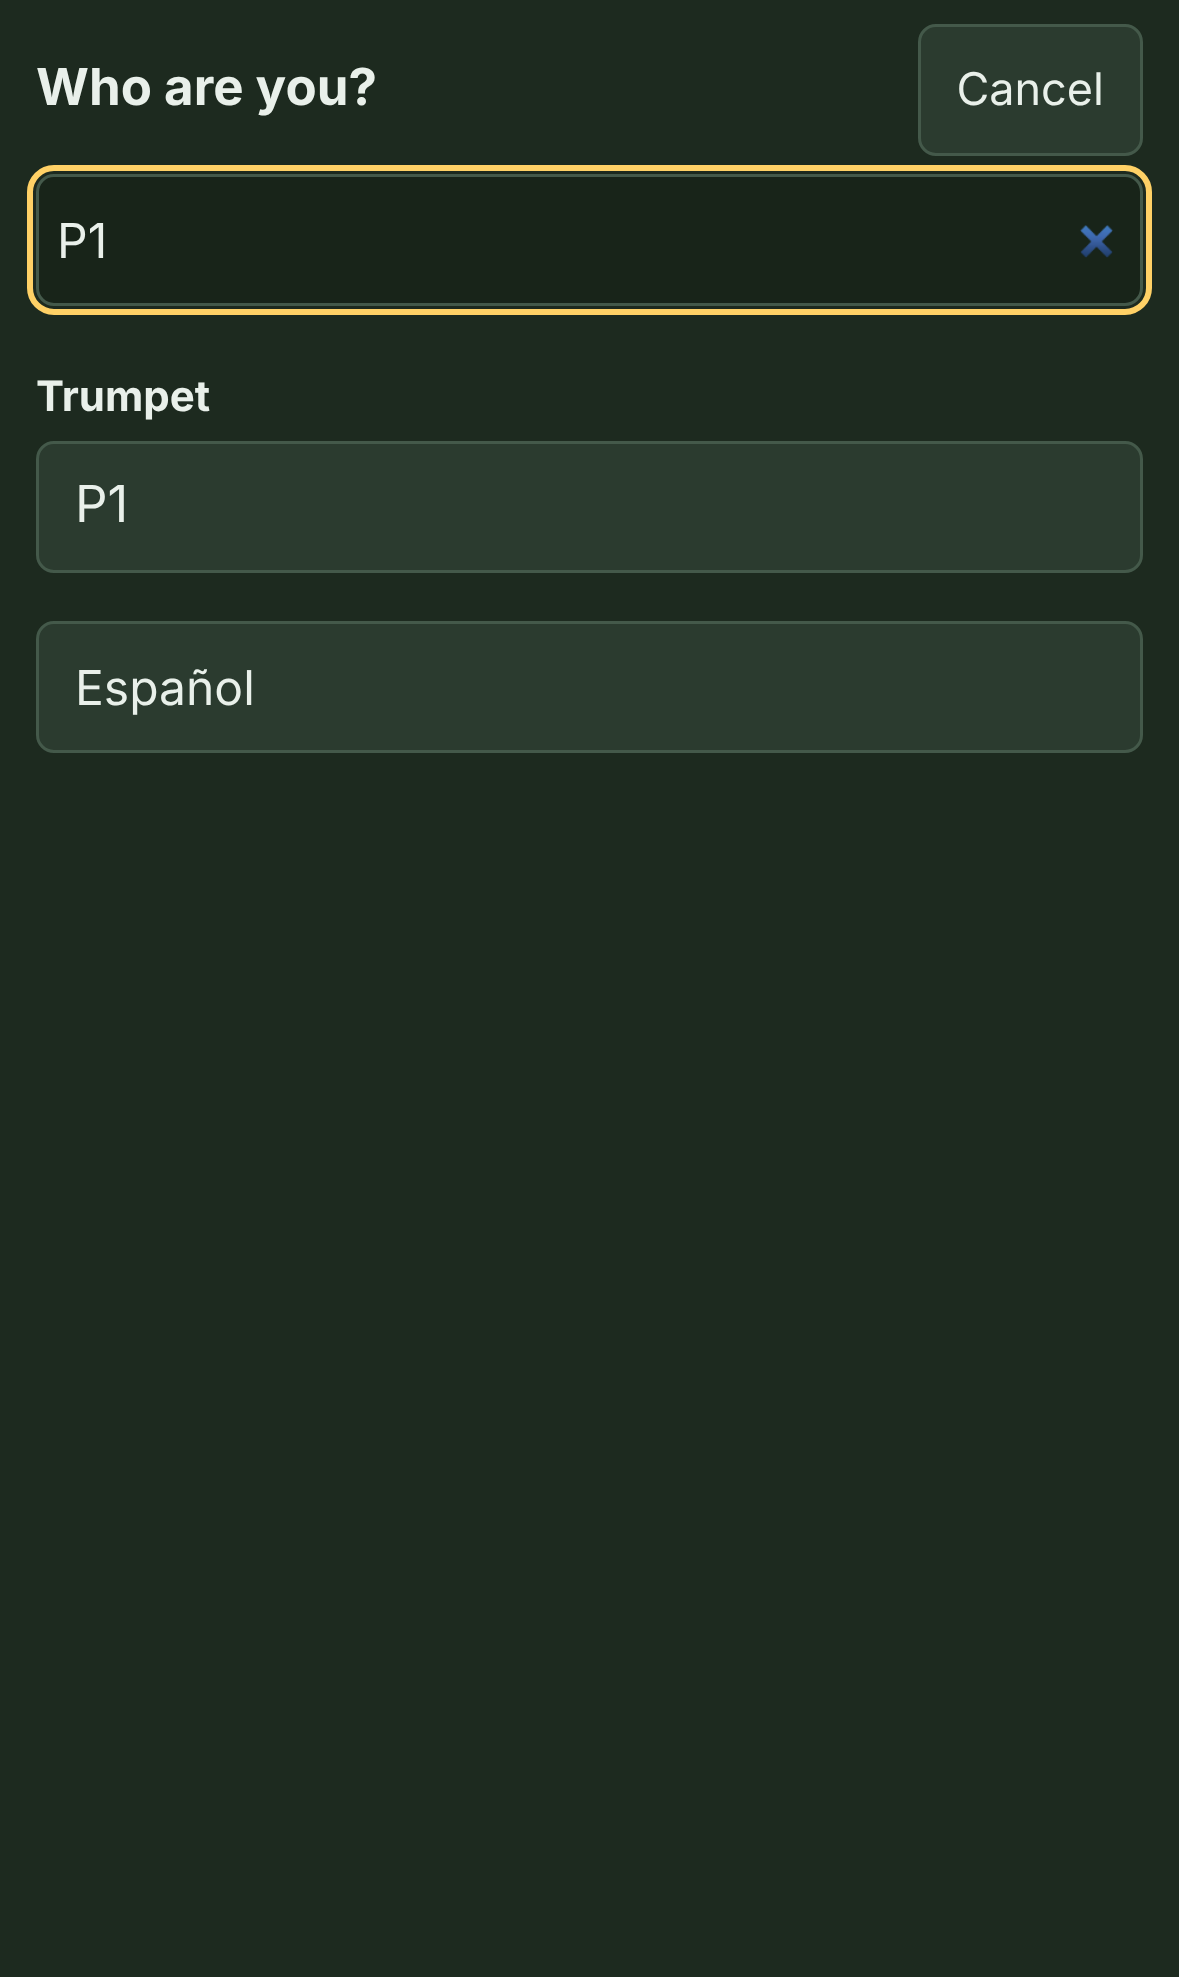
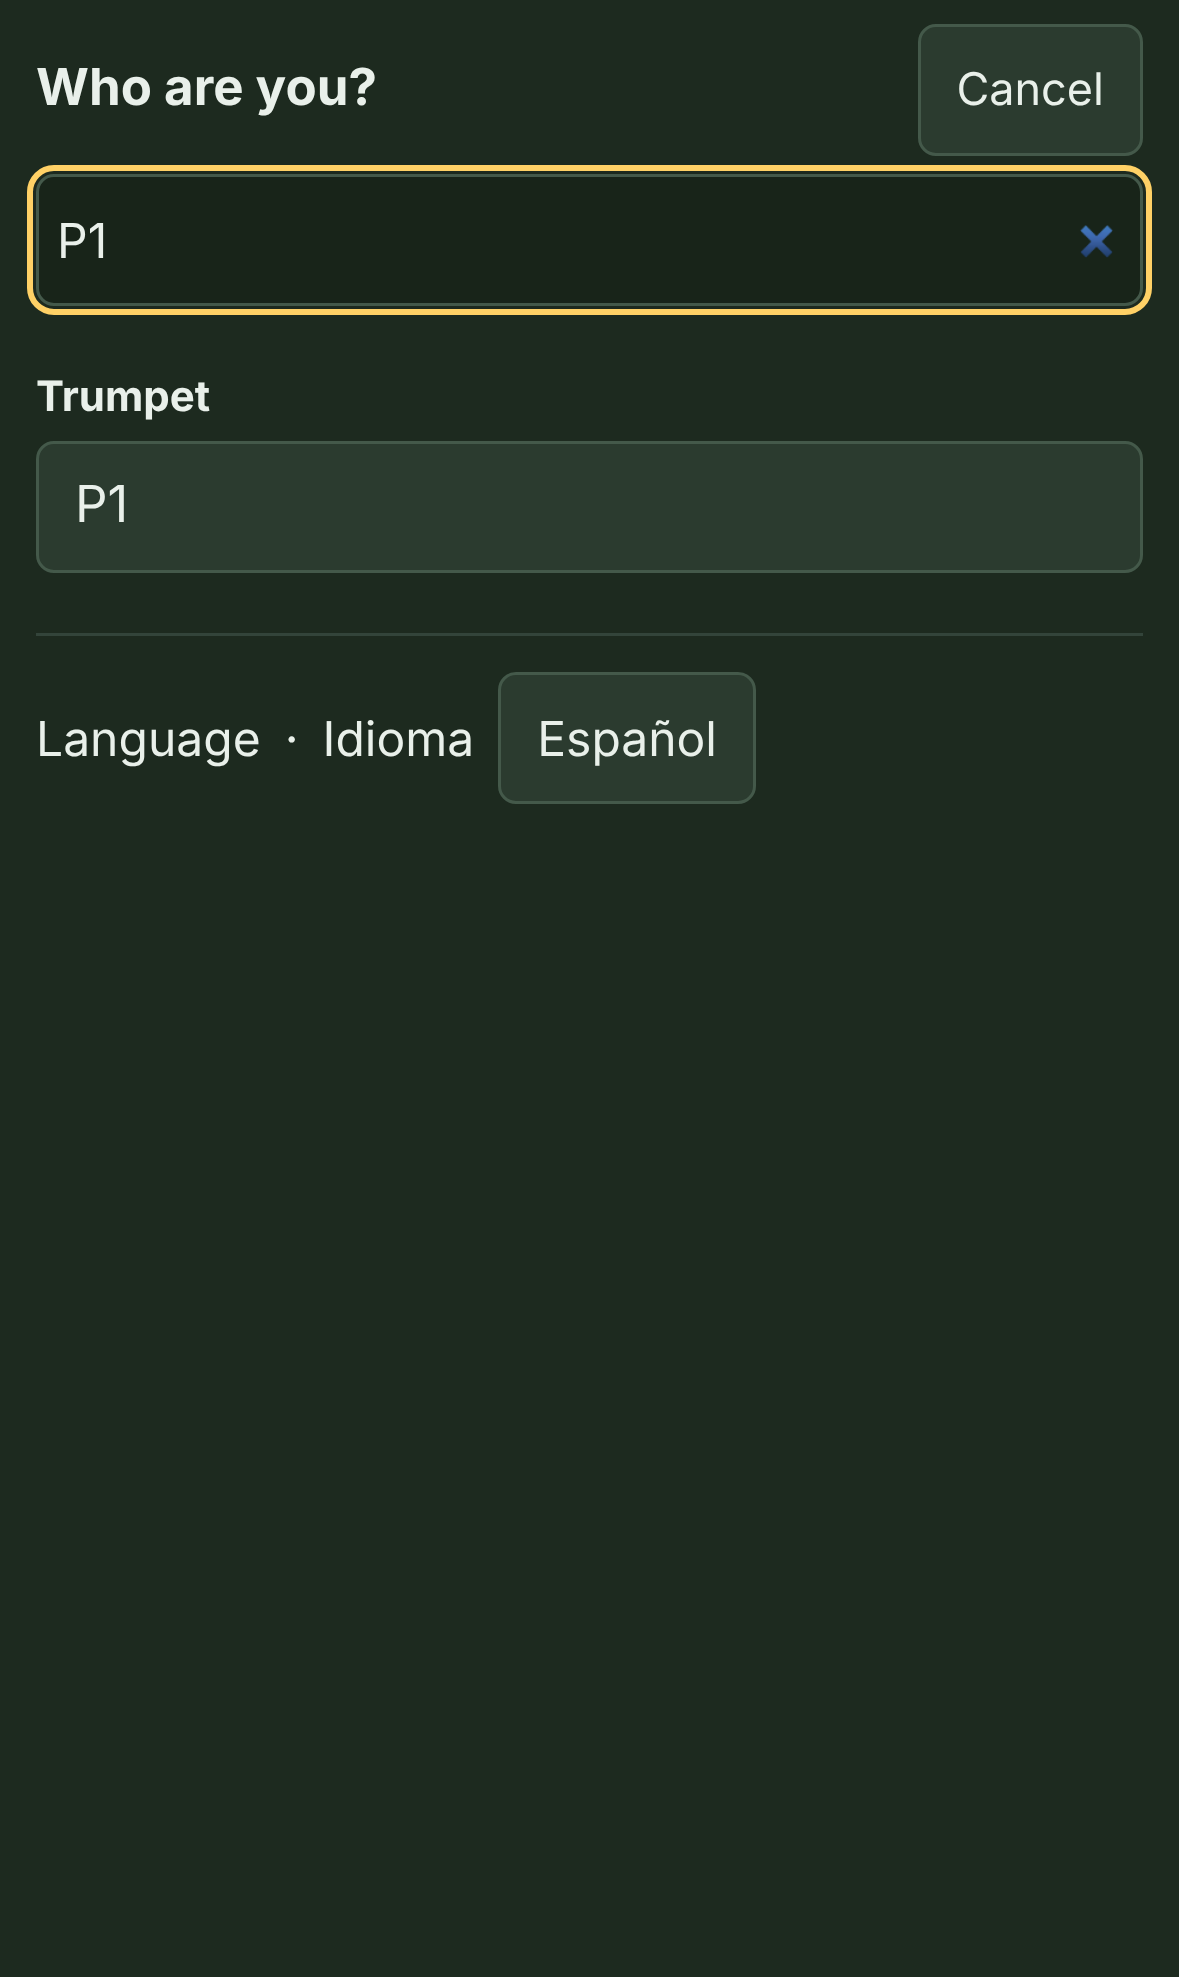
The language switch sits apart from the performers in the who list
Claude-Session: https://claude.ai/code/session_012ak5ZVHEpD9G47FepvLhFK

Changed region(s): [[0.0305, 0.3085, 0.2137, 0.4011], [0.458, 0.3394, 0.6412, 0.4011], [0.2748, 0.3703, 0.4275, 0.4011]]

diff --git a/app/index.html b/app/index.html
@@ -117,6 +117,8 @@
       .who-list h3 { margin: 14px 0 6px; font-size: 14px; }
       .who-list button { display: block; width: 100%; min-height: 44px; margin: 0 0 6px; font-size: 17px; text-align: left; }
       .who-list p { font-size: 16px; }
+      .who-list .who-lang { margin-top: 20px; padding-top: 12px; border-top: 1px solid var(--line); display: flex; align-items: center; gap: 8px; } /* not a performer: set apart, a normal-width button */
+      .who-list .who-lang button { display: inline-block; width: auto; margin: 0; }
       /* Short screens (a phone on its side, where the keyboard takes most of the height): title, search and Cancel share one
          row, and names run in columns, so more of the band shows above the keyboard. */
       @media (max-height: 500px) {

diff --git a/src/perform/WhoPicker.tsx b/src/perform/WhoPicker.tsx
@@ -48,7 +48,7 @@ export function WhoPicker({ show, value, staff, onPick }: { show: Show; value: s
               </section>
             ))}
             {!staffShown && !groups.length && <p>{tr('No one matches “{q}”. Try your last name or your dot (like P4).', { q: q.trim() })}</p>}
-            <p><LanguageButton /></p>
+            <p className="who-lang"><span lang="en">Language</span> · <span lang="es">Idioma</span> <LanguageButton /></p>
           </div>
         </div>
       )}
